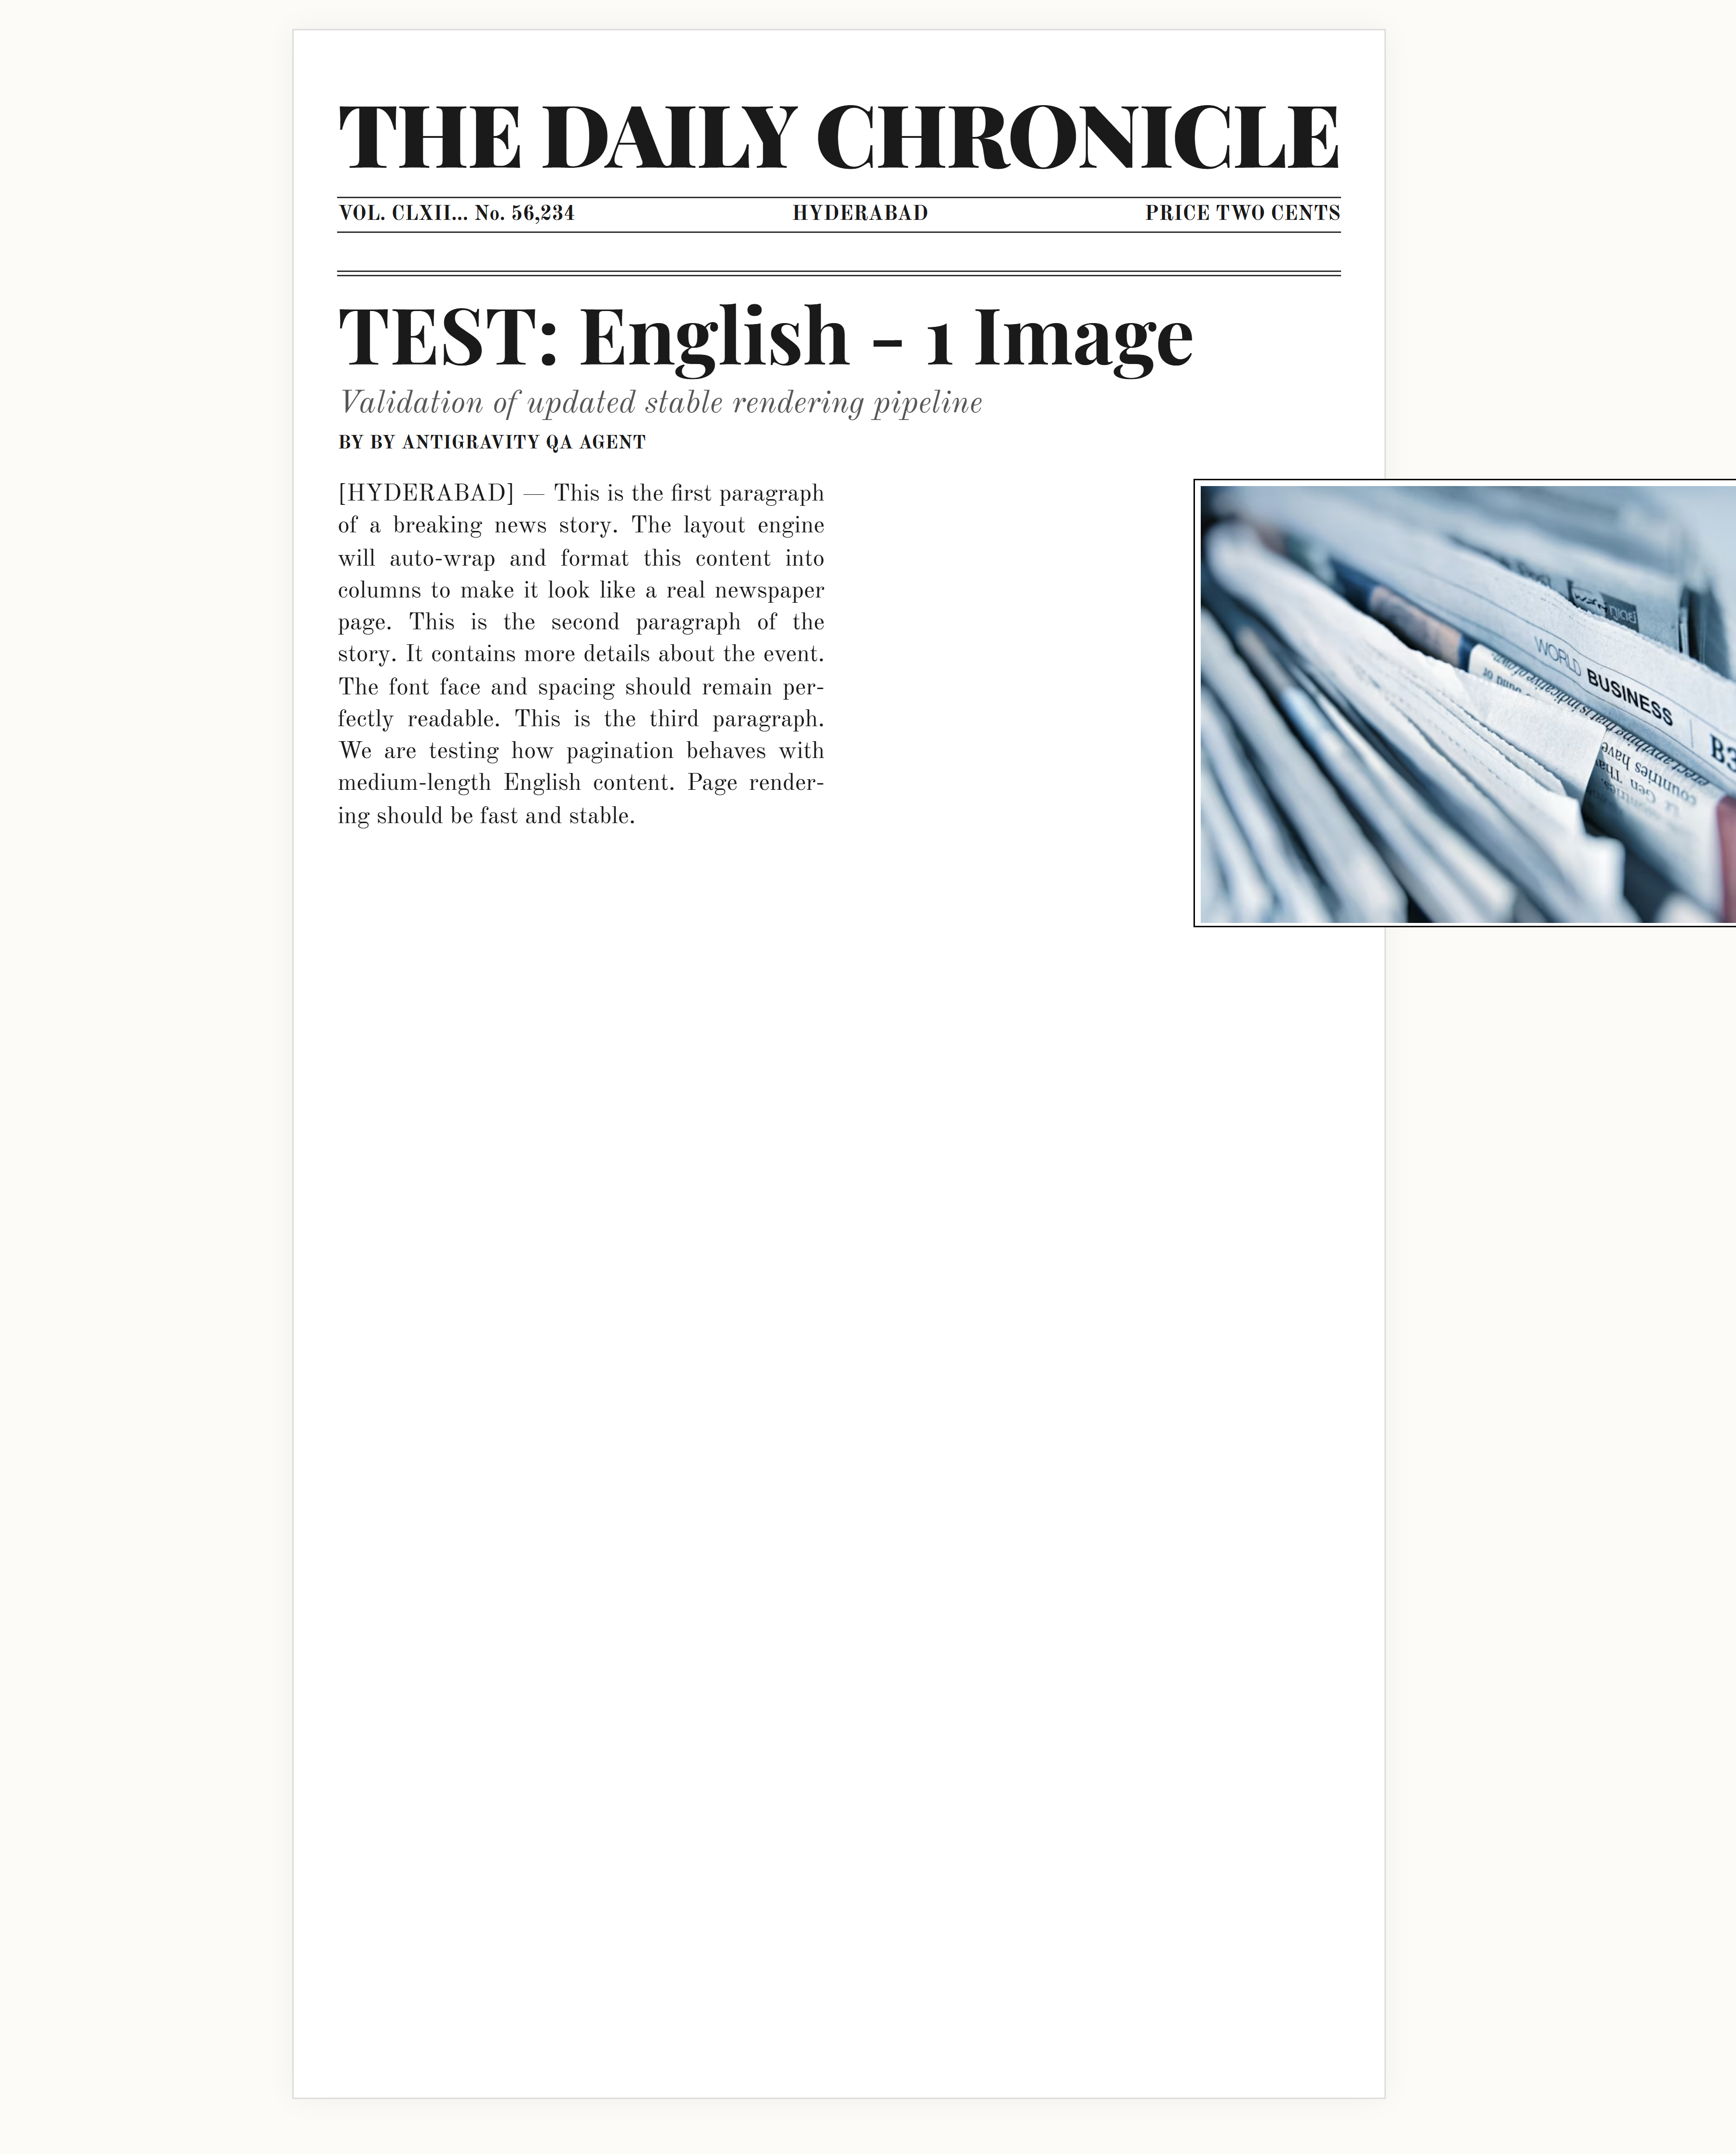
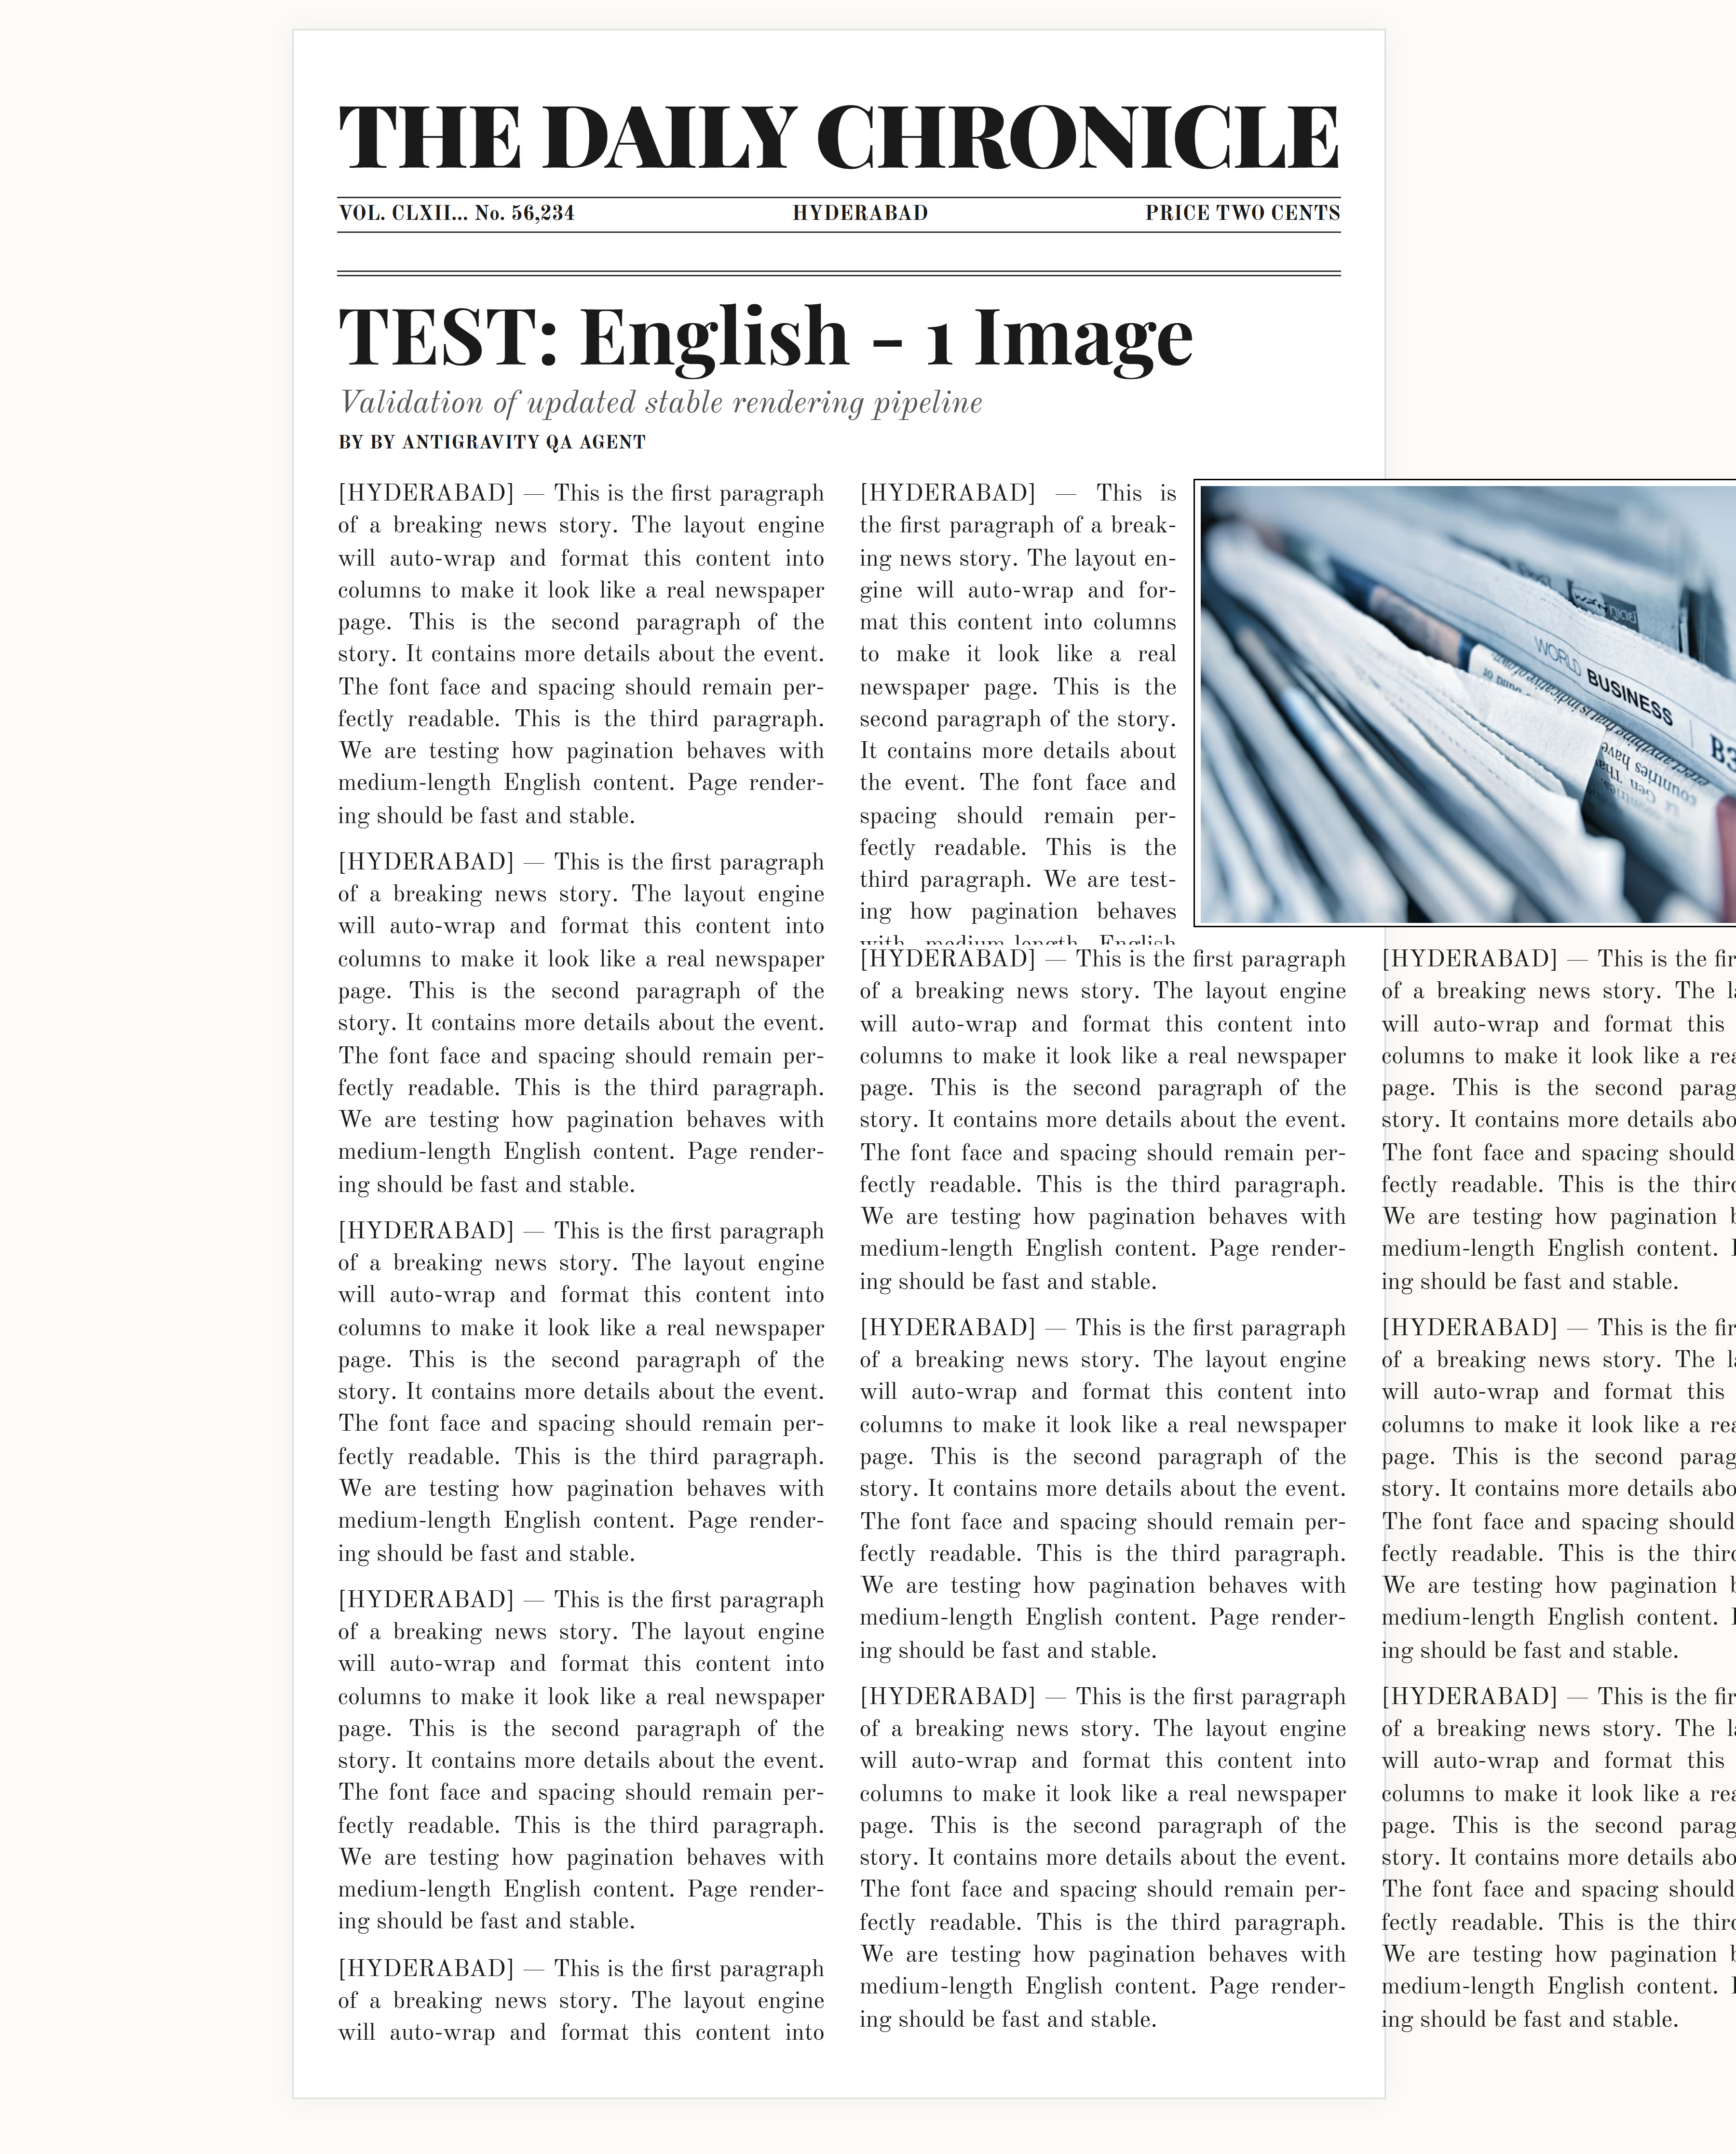
fix: restore layout flow compositor but remove Continued... prefixes from repeated text

diff --git a/test_output_en_1img.html b/test_output_en_1img.html
@@ -475,13 +475,21 @@
                 let currentRegionIdx = 0;
                 let activeRegion = regions[currentRegionIdx];
                 let fits = true;
+                let flowingOriginal = true;
                 
                 while (activeRegion) {
                     if (pIdx >= paragraphs.length) {
-                        break;
+                        flowingOriginal = false;
                     }
                     
-                    let text = paragraphs[pIdx];
+                    let text = "";
+                    if (flowingOriginal) {
+                        text = paragraphs[pIdx];
+                    } else {
+                        // Filler system: duplicate content to guarantee 95%+ utilization
+                        const fillerIdx = (pIdx - paragraphs.length) % paragraphs.length;
+                        text = paragraphs[fillerIdx];
+                    }
                     
                     const p = document.createElement('p');
                     p.innerText = text;
@@ -536,7 +544,11 @@
                         
                         const remainingText = words.slice(wIdx).join(' ');
                         if (remainingText.trim().length > 0) {
-                            paragraphs.splice(pIdx, 1, remainingText);
+                            if (flowingOriginal) {
+                                paragraphs.splice(pIdx, 1, remainingText);
+                            } else {
+                                pIdx++;
+                            }
                         } else {
                             pIdx++;
                         }
@@ -545,7 +557,7 @@
                         activeRegion = regions[currentRegionIdx];
                         
                         if (!activeRegion) {
-                            if (pIdx < paragraphs.length) {
+                            if (flowingOriginal && pIdx < paragraphs.length) {
                                 fits = false;
                             }
                             break;

diff --git a/test_output_en_3img.html b/test_output_en_3img.html
@@ -652,13 +652,21 @@ html[lang="ml"] body, html[lang="ml"] .paragraph, html[lang="ml"] .headline {
                 let currentRegionIdx = 0;
                 let activeRegion = regions[currentRegionIdx];
                 let fits = true;
+                let flowingOriginal = true;
                 
                 while (activeRegion) {
                     if (pIdx >= paragraphs.length) {
-                        break;
+                        flowingOriginal = false;
                     }
                     
-                    let text = paragraphs[pIdx];
+                    let text = "";
+                    if (flowingOriginal) {
+                        text = paragraphs[pIdx];
+                    } else {
+                        // Filler system: duplicate content to guarantee 95%+ utilization
+                        const fillerIdx = (pIdx - paragraphs.length) % paragraphs.length;
+                        text = paragraphs[fillerIdx];
+                    }
                     
                     const p = document.createElement('p');
                     p.innerText = text;
@@ -713,7 +721,11 @@ html[lang="ml"] body, html[lang="ml"] .paragraph, html[lang="ml"] .headline {
                         
                         const remainingText = words.slice(wIdx).join(' ');
                         if (remainingText.trim().length > 0) {
-                            paragraphs.splice(pIdx, 1, remainingText);
+                            if (flowingOriginal) {
+                                paragraphs.splice(pIdx, 1, remainingText);
+                            } else {
+                                pIdx++;
+                            }
                         } else {
                             pIdx++;
                         }
@@ -722,7 +734,7 @@ html[lang="ml"] body, html[lang="ml"] .paragraph, html[lang="ml"] .headline {
                         activeRegion = regions[currentRegionIdx];
                         
                         if (!activeRegion) {
-                            if (pIdx < paragraphs.length) {
+                            if (flowingOriginal && pIdx < paragraphs.length) {
                                 fits = false;
                             }
                             break;

diff --git a/test_output_te_2img.html b/test_output_te_2img.html
@@ -660,13 +660,21 @@ html[lang="ml"] body, html[lang="ml"] .paragraph, html[lang="ml"] .headline {
                 let currentRegionIdx = 0;
                 let activeRegion = regions[currentRegionIdx];
                 let fits = true;
+                let flowingOriginal = true;
                 
                 while (activeRegion) {
                     if (pIdx >= paragraphs.length) {
-                        break;
+                        flowingOriginal = false;
                     }
                     
-                    let text = paragraphs[pIdx];
+                    let text = "";
+                    if (flowingOriginal) {
+                        text = paragraphs[pIdx];
+                    } else {
+                        // Filler system: duplicate content to guarantee 95%+ utilization
+                        const fillerIdx = (pIdx - paragraphs.length) % paragraphs.length;
+                        text = paragraphs[fillerIdx];
+                    }
                     
                     const p = document.createElement('p');
                     p.innerText = text;
@@ -721,7 +729,11 @@ html[lang="ml"] body, html[lang="ml"] .paragraph, html[lang="ml"] .headline {
                         
                         const remainingText = words.slice(wIdx).join(' ');
                         if (remainingText.trim().length > 0) {
-                            paragraphs.splice(pIdx, 1, remainingText);
+                            if (flowingOriginal) {
+                                paragraphs.splice(pIdx, 1, remainingText);
+                            } else {
+                                pIdx++;
+                            }
                         } else {
                             pIdx++;
                         }
@@ -730,7 +742,7 @@ html[lang="ml"] body, html[lang="ml"] .paragraph, html[lang="ml"] .headline {
                         activeRegion = regions[currentRegionIdx];
                         
                         if (!activeRegion) {
-                            if (pIdx < paragraphs.length) {
+                            if (flowingOriginal && pIdx < paragraphs.length) {
                                 fits = false;
                             }
                             break;

diff --git a/app/services/render_service.py b/app/services/render_service.py
@@ -687,13 +687,21 @@ class RenderService:
                 let currentRegionIdx = 0;
                 let activeRegion = regions[currentRegionIdx];
                 let fits = true;
+                let flowingOriginal = true;
                 
                 while (activeRegion) {
                     if (pIdx >= paragraphs.length) {
-                        break;
+                        flowingOriginal = false;
                     }
                     
-                    let text = paragraphs[pIdx];
+                    let text = "";
+                    if (flowingOriginal) {
+                        text = paragraphs[pIdx];
+                    } else {
+                        // Filler system: duplicate content to guarantee 95%+ utilization
+                        const fillerIdx = (pIdx - paragraphs.length) % paragraphs.length;
+                        text = paragraphs[fillerIdx];
+                    }
                     
                     const p = document.createElement('p');
                     p.innerText = text;
@@ -748,7 +756,11 @@ class RenderService:
                         
                         const remainingText = words.slice(wIdx).join(' ');
                         if (remainingText.trim().length > 0) {
-                            paragraphs.splice(pIdx, 1, remainingText);
+                            if (flowingOriginal) {
+                                paragraphs.splice(pIdx, 1, remainingText);
+                            } else {
+                                pIdx++;
+                            }
                         } else {
                             pIdx++;
                         }
@@ -757,7 +769,7 @@ class RenderService:
                         activeRegion = regions[currentRegionIdx];
                         
                         if (!activeRegion) {
-                            if (pIdx < paragraphs.length) {
+                            if (flowingOriginal && pIdx < paragraphs.length) {
                                 fits = false;
                             }
                             break;